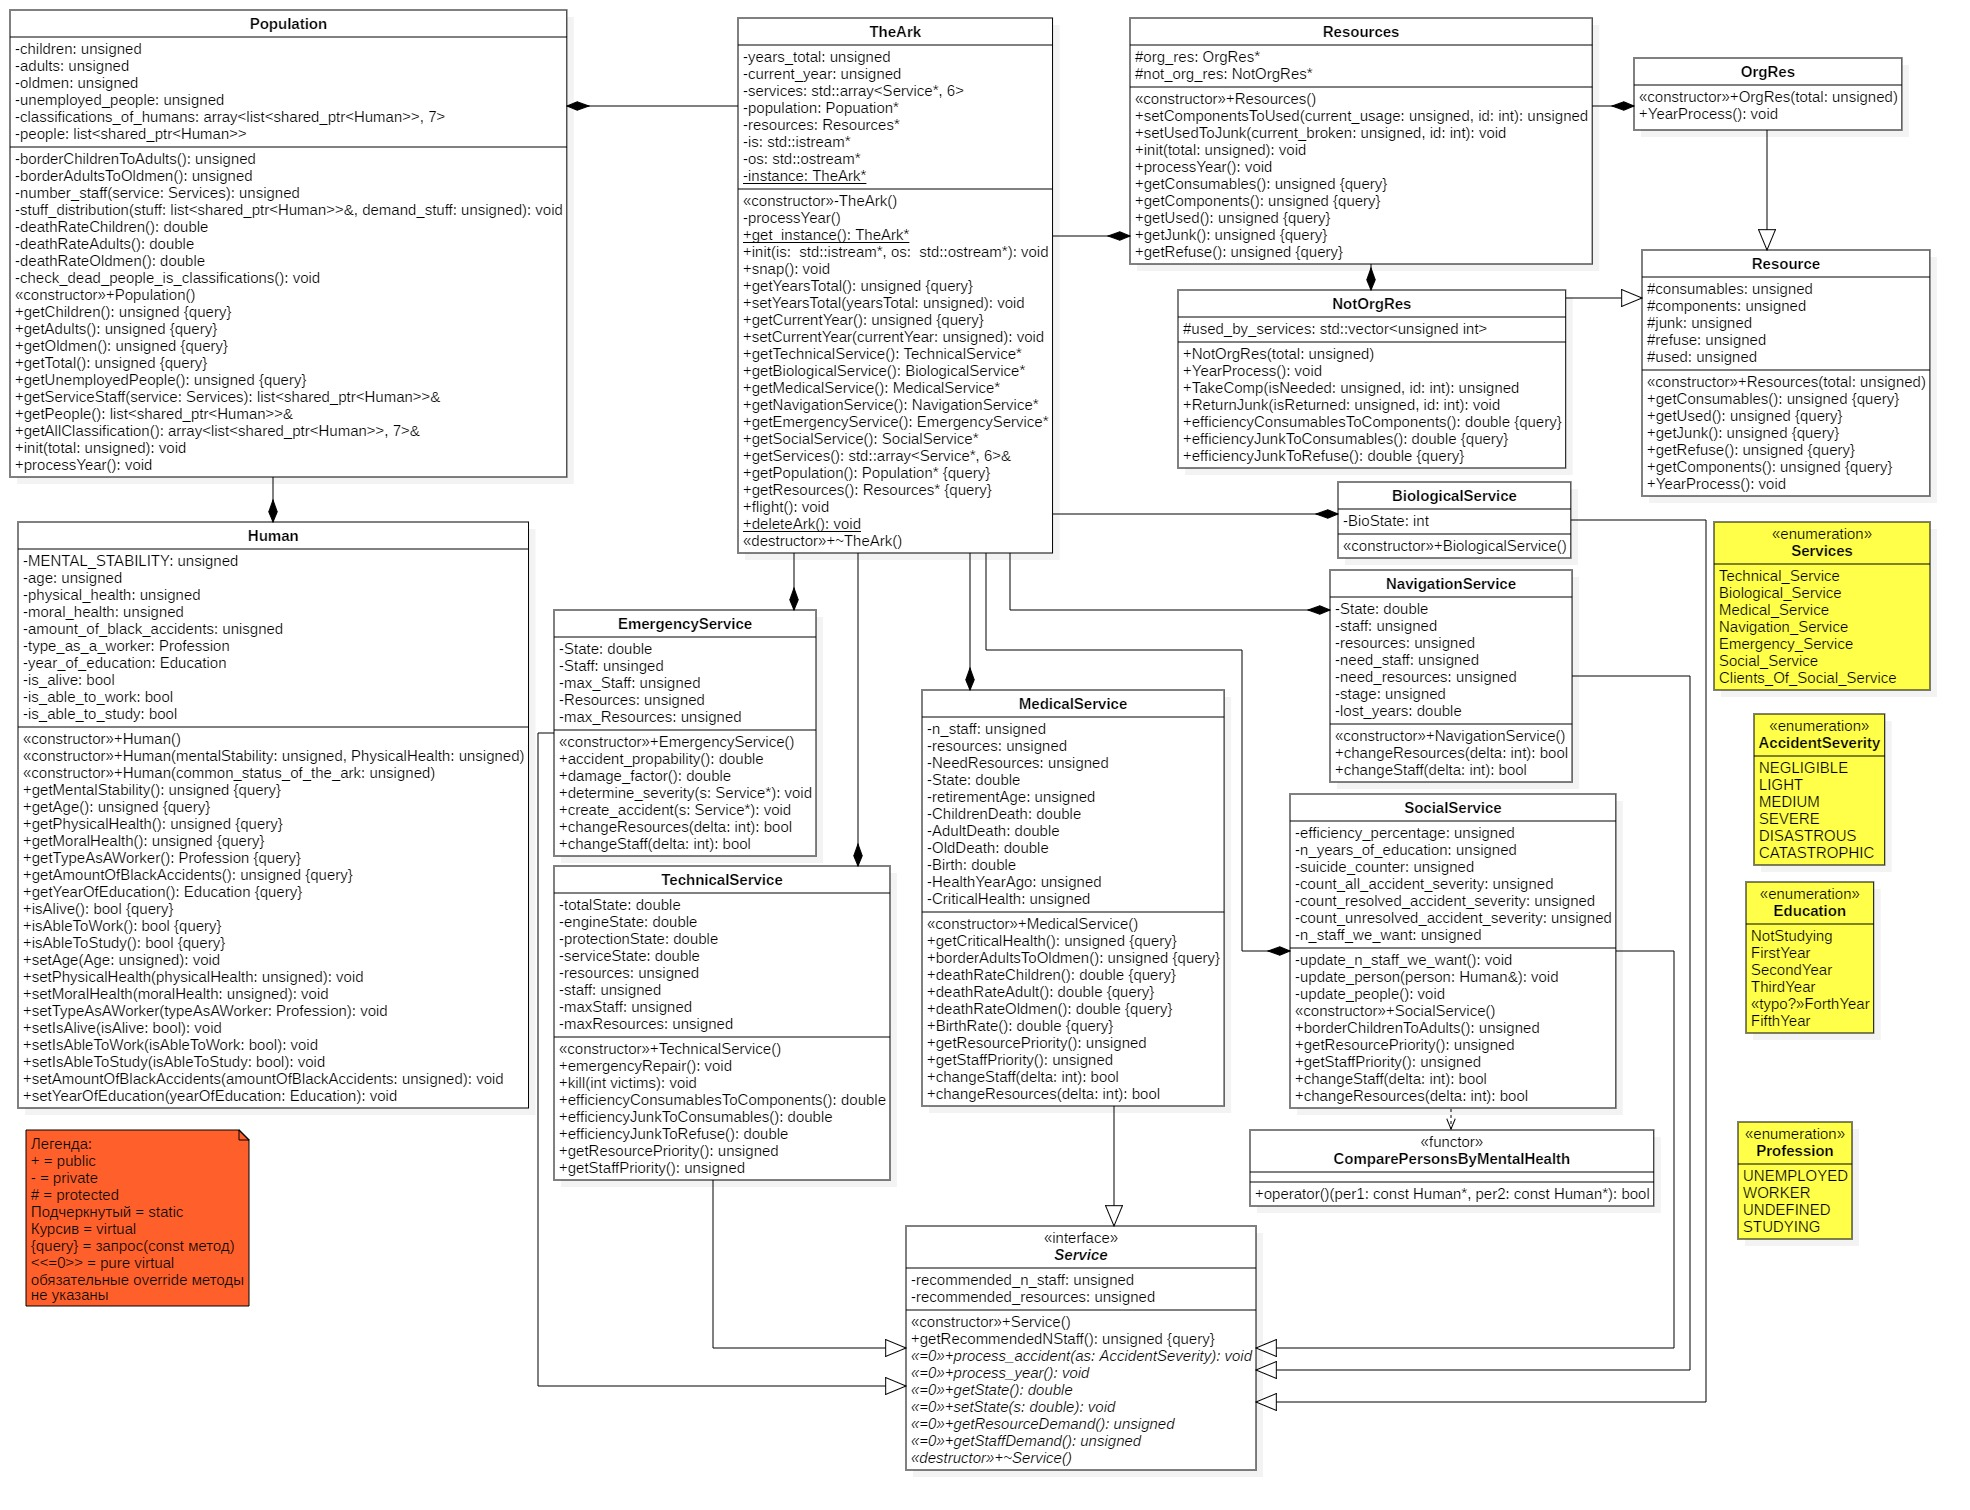
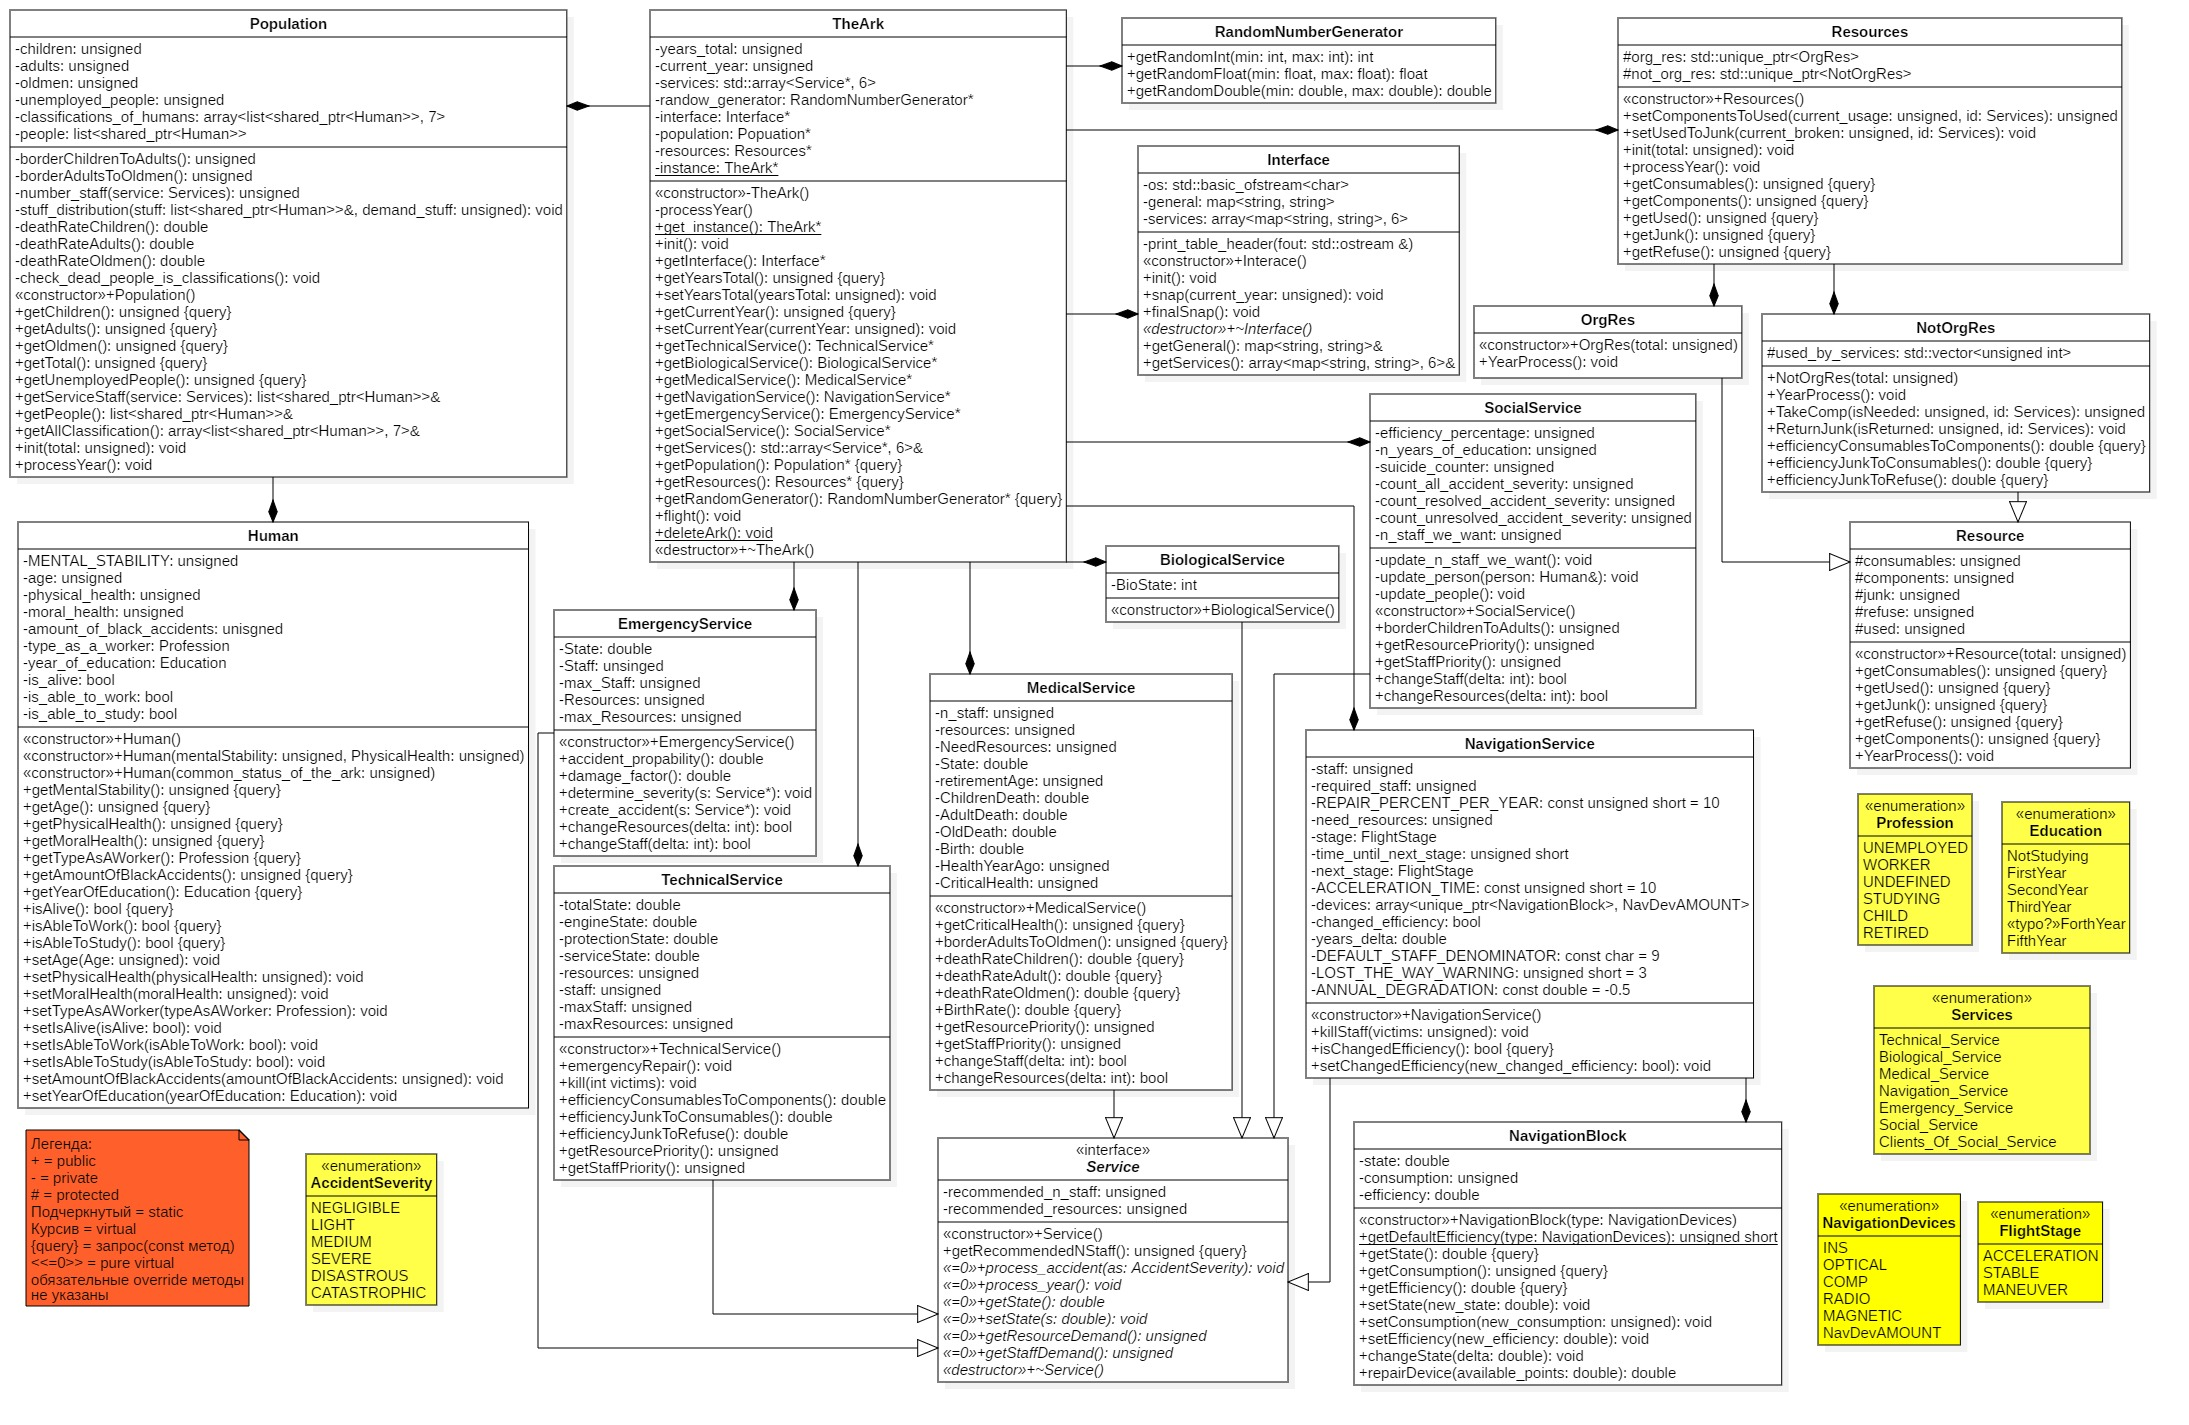
Class_Diag upd + small fixes
v5

Changed region(s): [[0.0, 0.0, 0.9909, 0.9881], [0.3096, 0.8954, 0.3406, 0.9263]]

diff --git a/NavigationBlock.h b/NavigationBlock.h
@@ -25,12 +25,12 @@ enum NavigationDevices
 class NavigationBlock
 {
 private:
-    float state;
+    double state;
     unsigned int consumption;  // Resources per year
 
     // Some devices are much more useful than other,
     // Can change during the flight
-    float efficiency;
+    double efficiency;
 
 public:
     explicit NavigationBlock(NavigationDevices type);
@@ -38,18 +38,18 @@ public:
     // Basic numbers for efficiency of each device
     static unsigned short getDefaultEfficiency(NavigationDevices type);
 
-    [[nodiscard]] float getState() const;
+    [[nodiscard]] double getState() const;
     [[nodiscard]] unsigned int getConsumption() const;
-    [[nodiscard]] float getEfficiency() const;
+    [[nodiscard]] double getEfficiency() const;
 
-    void setState(float new_state);     // Has protection form invalid value
+    void setState(double new_state);     // Has protection form invalid value
     void setConsumption(unsigned new_consumption);
-    void setEfficiency(float new_efficiency);
+    void setEfficiency(double new_efficiency);
 
-    void changeState(float delta); // Delta can be < 0, has protection form invalid value
+    void changeState(double delta); // Delta can be < 0, has protection form invalid value
 
     // Points + current state can be > 100, method returns unused points back
-    float repairDevice(float available_points);
+    double repairDevice(double available_points);
 
 };
 

diff --git a/NavigationBlock.cpp b/NavigationBlock.cpp
@@ -37,26 +37,26 @@ NavigationBlock::NavigationBlock(NavigationDevices type)
 
 unsigned int NavigationBlock::getConsumption() const { return consumption; }
 
-float NavigationBlock::getEfficiency() const { return efficiency; }
+double NavigationBlock::getEfficiency() const { return efficiency; }
 
-float NavigationBlock::getState() const { return state; }
+double NavigationBlock::getState() const { return state; }
 
 void NavigationBlock::setConsumption(unsigned int new_consumption) {
     consumption = new_consumption;
 }
 
-void NavigationBlock::setEfficiency(float new_efficiency) {
+void NavigationBlock::setEfficiency(double new_efficiency) {
     efficiency = new_efficiency;
 }
 
-void NavigationBlock::setState(float new_state) {
+void NavigationBlock::setState(double new_state) {
     if(new_state <= 100 and new_state >= 0)
         state = new_state;
     else
         cout << "NAVBLOCK ERROR_3" << endl;
 }
 
-void NavigationBlock::changeState(float delta) {
+void NavigationBlock::changeState(double delta) {
     state += delta;
     if (state < 0)
         state = 0;
@@ -64,7 +64,7 @@ void NavigationBlock::changeState(float delta) {
         state = 100;
 }
 
-float NavigationBlock::repairDevice(float available_points) {
+double NavigationBlock::repairDevice(double available_points) {
     if (state + available_points > 100) {
         available_points -= (100 - state);
         state = 100;

diff --git a/EmergencyService.h b/EmergencyService.h
@@ -34,7 +34,7 @@ public:
     EmergencyService();
 
     unsigned int getNStaff();
-    double accident_propability();
+    double accident_probability();
     double damage_factor();
     void determine_severity(Service* s);
     void create_accident(Service* s);
@@ -43,8 +43,9 @@ public:
     double getState() override;                             // каждая служба должна уметь вернуть свое состояние в процентах, посчитав его в своих терминах
     void setState(double s) override;                       // функция для инициализации, каждая служба должна уметь получить состояние в процентах и пересчитать  его в своих терминах
     
-    unsigned int getStaffDemand();
-    unsigned int getResourceDemand();
+    unsigned int getStaffDemand() override;
+    unsigned int getResourceDemand() override;
+
     bool changeResources(int delta);
     bool changeStaff(int delta);
 

diff --git a/EmergencyService.cpp b/EmergencyService.cpp
@@ -16,7 +16,7 @@ EmergencyService::EmergencyService()
 
 
 //от 0 до 1, чем хуже состояние службы - тем выше вероятность аварии
-double EmergencyService::accident_propability()
+double EmergencyService::accident_probability()
 {
     double s = TheArk::get_instance()->getMedicalService()->getState() / 100;
     return 1 / pow(3, 3 * s);
@@ -35,7 +35,7 @@ void EmergencyService::create_accident(Service* s)
 {
     srand(time(0));
     int temp = (20 + rand() % 100);
-    double k = temp * (1 - this->accident_propability());
+    double k = temp * (1 - this->accident_probability());
     if (k > 20 && k < 100)
         this->determine_severity(s);
     else return;

diff --git a/RandomNumberGenerator.cpp b/RandomNumberGenerator.cpp
@@ -18,7 +18,7 @@ float RandomNumberGenerator::getRandomFloat(float min, float max) {
     return d(e);
 }
 
-double RandomNumberGenerator::getRandomDouble(float min, float max) {
+double RandomNumberGenerator::getRandomDouble(double min, double max) {
     unsigned seed = std::chrono::steady_clock::now().time_since_epoch().count();
     static std::default_random_engine e(seed);
     uniform_real_distribution<double> d(min, max);

diff --git a/NavigationService.cpp b/NavigationService.cpp
@@ -253,6 +253,6 @@ bool NavigationService::isChangedEfficiency() const {
     return changed_efficiency;
 }
 
-void NavigationService::setChangedEfficiency(bool changedEfficiency) {
-    changed_efficiency = changedEfficiency;
+void NavigationService::setChangedEfficiency(bool new_changed_efficiency) {
+    changed_efficiency = new_changed_efficiency;
 }

diff --git a/RandomNumberGenerator.h b/RandomNumberGenerator.h
@@ -16,7 +16,7 @@ class RandomNumberGenerator
 public:
     int getRandomInt(int min, int max);
     float getRandomFloat(float min, float max);
-    double getRandomDouble(float min, float max);
+    double getRandomDouble(double min, double max);
 };
 
 #endif //THE_ARK_RANDOMNUMBERGENERATOR_H

diff --git a/NavigationService.h b/NavigationService.h
@@ -81,7 +81,7 @@ public:
     void killStaff(unsigned victims);
 
     [[nodiscard]] bool isChangedEfficiency() const;
-    void setChangedEfficiency(bool changedEfficiency);
+    void setChangedEfficiency(bool new_changed_efficiency);
 };
 
 #endif //THE_ARK_NAVIGATIONSERVICE_H
